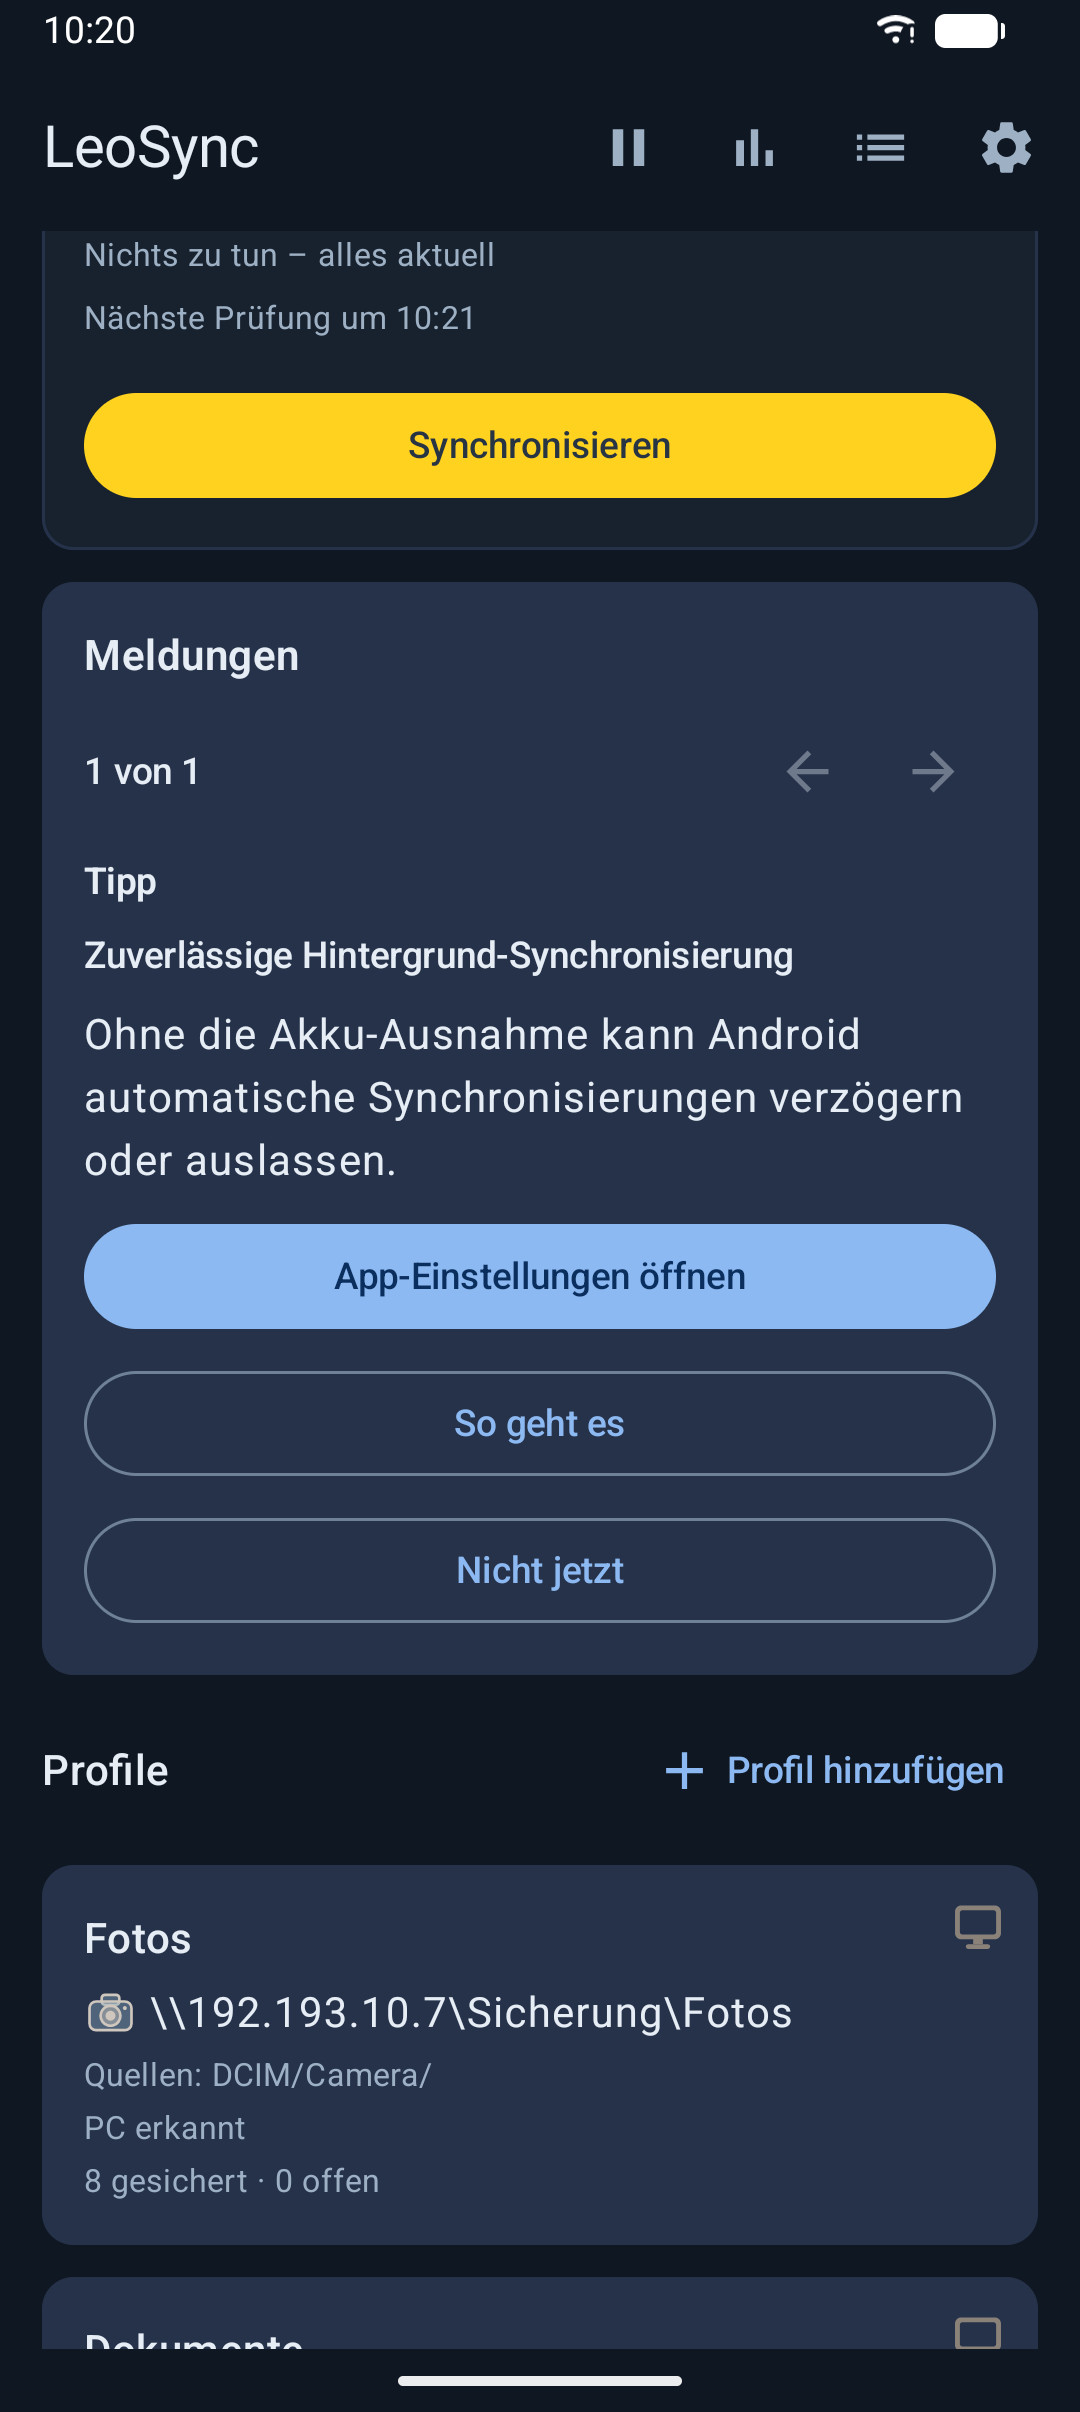
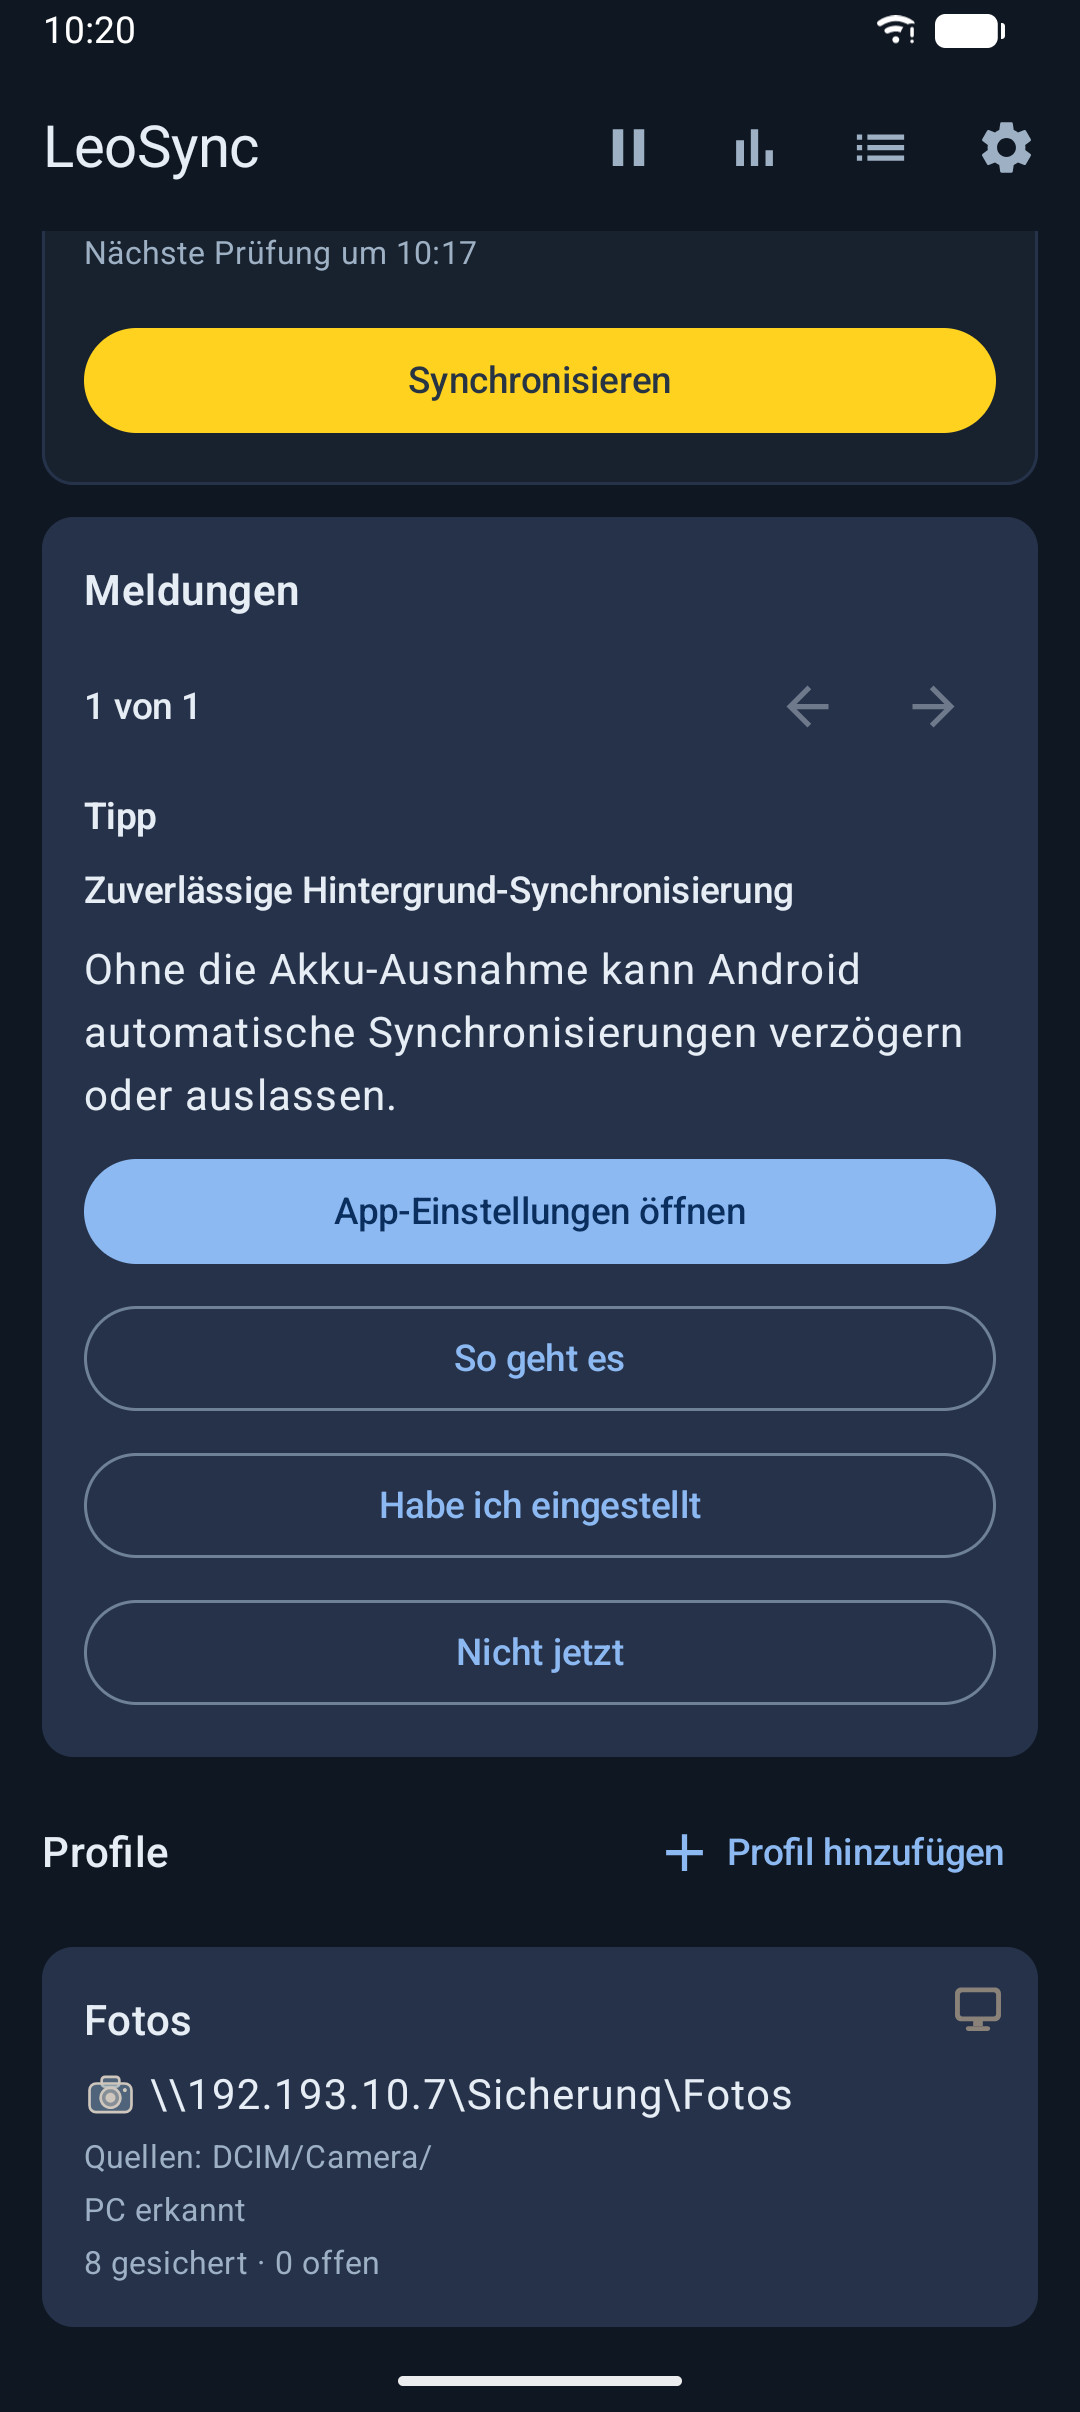
Ergänzen Screenshots

diff --git a/leosync/hilfe.html b/leosync/hilfe.html
@@ -829,7 +829,7 @@
 
         <p>Viele Hersteller beenden Apps im Hintergrund sehr streng. In LeoSync unter <strong>Einstellungen → App-Berechtigungen</strong> siehst du, was LeoSync für die automatische Synchronisierung im Hintergrund braucht und was schon erledigt ist: <strong>Benachrichtigungen</strong> (ab Android 13) und <strong>Zugriff auf Fotos und Videos</strong> (nur wenn du ein Fotos-Profil hast); fehlt einer dieser Punkte, zeigt die Startseite die Karte «Einrichtung unvollständig». Dazu kommt <strong>Akku-Optimierung ausschalten</strong>: Das ist eine Empfehlung, kein Muss. Fehlt sie, erscheint auf der Startseite eine neutrale Tipp-Karte; mit <strong>Nicht jetzt</strong> blendest du sie dauerhaft aus, in den Einstellungen steht dann «Zurückgestellt». Eine Standortberechtigung braucht LeoSync nicht.</p>
 
-        <div class="help-phones two">
+        <div class="help-phones">
             <figure>
                 <div class="phone-frame">
                     <picture>
@@ -837,7 +837,7 @@
                         <source media="(prefers-color-scheme: dark)" srcset="../images/LeoSync/app_berechtigungen_de.jpg">
                         <source srcset="../images/LeoSync/app_berechtigungen_bright_de.webp" type="image/webp">
                         <img src="../images/LeoSync/app_berechtigungen_bright_de.jpg" width="1080" height="2412" loading="lazy"
-                             alt="LeoSync «App-Berechtigungen» mit Zugriff auf Fotos und Videos, Benachrichtigungen und der Zeile zur Akku-Optimierung mit «App-Einstellungen öffnen»">
+                             alt="LeoSync «App-Berechtigungen» mit erledigten Zeilen für Fotos und Videos und Benachrichtigungen; die Zeile «Akku» ist offen und hat die Knöpfe «So geht es», «Habe ich eingestellt» und «App-Einstellungen öffnen»">
                     </picture>
                     <span class="phone-speaker"></span>
                     <span class="phone-camera"></span>
@@ -851,12 +851,26 @@
                         <source media="(prefers-color-scheme: dark)" srcset="../images/LeoSync/akku_tipp_de.jpg">
                         <source srcset="../images/LeoSync/akku_tipp_bright_de.webp" type="image/webp">
                         <img src="../images/LeoSync/akku_tipp_bright_de.jpg" width="1080" height="2412" loading="lazy"
-                             alt="LeoSync Startseite: Tipp-Karte «Zuverlässige Hintergrund-Synchronisierung» mit «App-Einstellungen öffnen», «So geht es» und «Nicht jetzt»">
+                             alt="LeoSync Startseite: Tipp-Karte «Zuverlässige Hintergrund-Synchronisierung» mit «App-Einstellungen öffnen», «So geht es», «Habe ich eingestellt» und «Nicht jetzt»">
                     </picture>
                     <span class="phone-speaker"></span>
                     <span class="phone-camera"></span>
                 </div>
                 <figcaption>Tipp-Karte zur Akku-Optimierung</figcaption>
+            </figure>
+            <figure>
+                <div class="phone-frame">
+                    <picture>
+                        <source media="(prefers-color-scheme: dark)" srcset="../images/LeoSync/akku_anleitung_de.webp" type="image/webp">
+                        <source media="(prefers-color-scheme: dark)" srcset="../images/LeoSync/akku_anleitung_de.jpg">
+                        <source srcset="../images/LeoSync/akku_anleitung_bright_de.webp" type="image/webp">
+                        <img src="../images/LeoSync/akku_anleitung_bright_de.jpg" width="1080" height="2412" loading="lazy"
+                             alt="LeoSync Tipp-Karte mit aufgeklappter Anleitung «So geht es»: App-Einstellungen öffnen, Akku wählen, «Uneingeschränkt» wählen, zurück zu LeoSync">
+                    </picture>
+                    <span class="phone-speaker"></span>
+                    <span class="phone-camera"></span>
+                </div>
+                <figcaption>Aufgeklappte Anleitung «So geht es»</figcaption>
             </figure>
         </div>
 

diff --git a/leosync/en/help.html b/leosync/en/help.html
@@ -829,7 +829,7 @@
 
         <p>Many manufacturers close apps in the background very aggressively. In LeoSync under <strong>Settings → App permissions</strong>, you can see what LeoSync needs for automatic background sync and what is already done: <strong>notifications</strong> (Android 13 and newer) and <strong>access to photos and videos</strong> (only if you have a photo profile); if one of these is missing, the home screen shows the card “Setup incomplete”. In addition there is <strong>turn off battery optimization</strong>: this is a recommendation, not a must. If it is missing, the home screen shows a neutral tip card; <strong>Not now</strong> hides it permanently, and Settings then shows “Skipped”. LeoSync does not need a location permission.</p>
 
-        <div class="help-phones two">
+        <div class="help-phones">
             <figure>
                 <div class="phone-frame">
                     <picture>
@@ -837,7 +837,7 @@
                         <source media="(prefers-color-scheme: dark)" srcset="../../images/LeoSync/app_berechtigungen_en.jpg">
                         <source srcset="../../images/LeoSync/app_berechtigungen_bright_en.webp" type="image/webp">
                         <img src="../../images/LeoSync/app_berechtigungen_bright_en.jpg" width="1080" height="2412" loading="lazy"
-                             alt="LeoSync «App permissions» with access to photos and videos, notifications and the battery optimization row with «Open app settings»">
+                             alt="LeoSync «App permissions» with completed rows for photos and videos and notifications; the «Battery» row is still open with the buttons «How to», «I have set this» and «Open app settings»">
                     </picture>
                     <span class="phone-speaker"></span>
                     <span class="phone-camera"></span>
@@ -851,12 +851,26 @@
                         <source media="(prefers-color-scheme: dark)" srcset="../../images/LeoSync/akku_tipp_en.jpg">
                         <source srcset="../../images/LeoSync/akku_tipp_bright_en.webp" type="image/webp">
                         <img src="../../images/LeoSync/akku_tipp_bright_en.jpg" width="1080" height="2412" loading="lazy"
-                             alt="LeoSync home screen: tip card for reliable background sync with «Open app settings», «How» and «Not now»">
+                             alt="LeoSync home screen: tip card «Reliable background sync» with «Open app settings», «How to», «I have set this» and «Not now»">
                     </picture>
                     <span class="phone-speaker"></span>
                     <span class="phone-camera"></span>
                 </div>
                 <figcaption>Tip card for battery optimization</figcaption>
+            </figure>
+            <figure>
+                <div class="phone-frame">
+                    <picture>
+                        <source media="(prefers-color-scheme: dark)" srcset="../../images/LeoSync/akku_anleitung_en.webp" type="image/webp">
+                        <source media="(prefers-color-scheme: dark)" srcset="../../images/LeoSync/akku_anleitung_en.jpg">
+                        <source srcset="../../images/LeoSync/akku_anleitung_bright_en.webp" type="image/webp">
+                        <img src="../../images/LeoSync/akku_anleitung_bright_en.jpg" width="1080" height="2412" loading="lazy"
+                             alt="LeoSync tip card with the «How to» instructions expanded: open app settings, choose battery, choose «Unrestricted», return to LeoSync">
+                    </picture>
+                    <span class="phone-speaker"></span>
+                    <span class="phone-camera"></span>
+                </div>
+                <figcaption>Expanded «How to» instructions</figcaption>
             </figure>
         </div>
 
